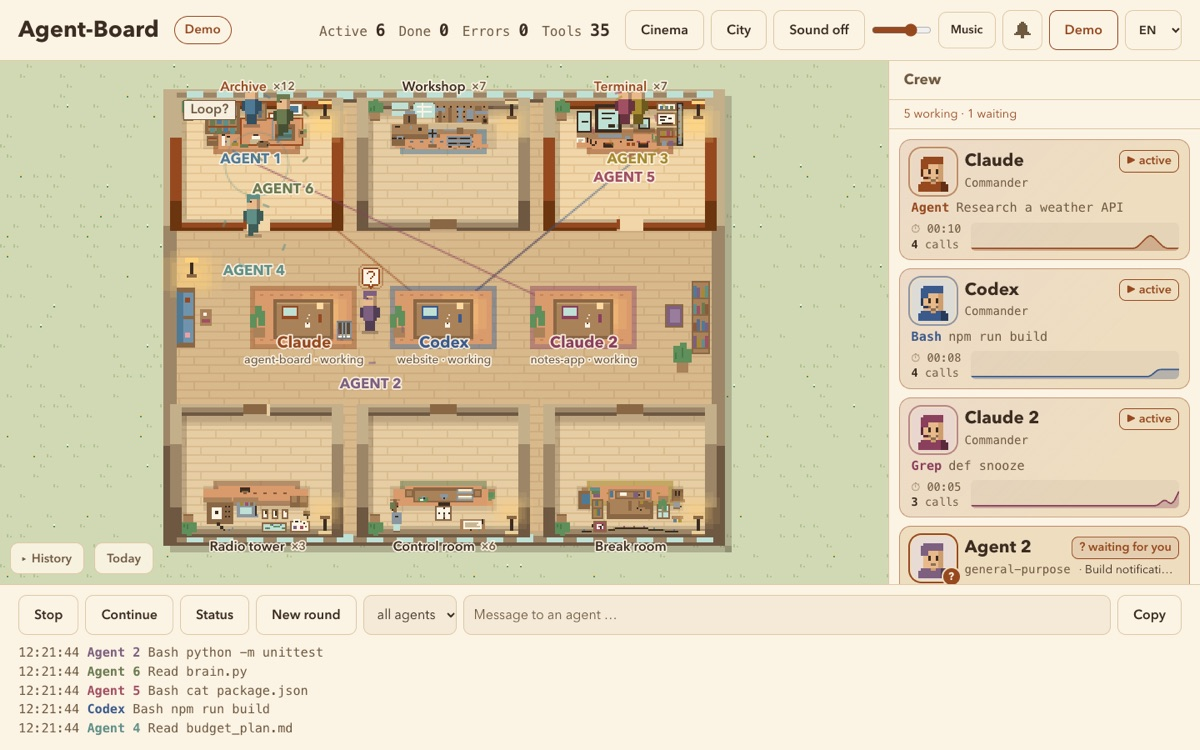
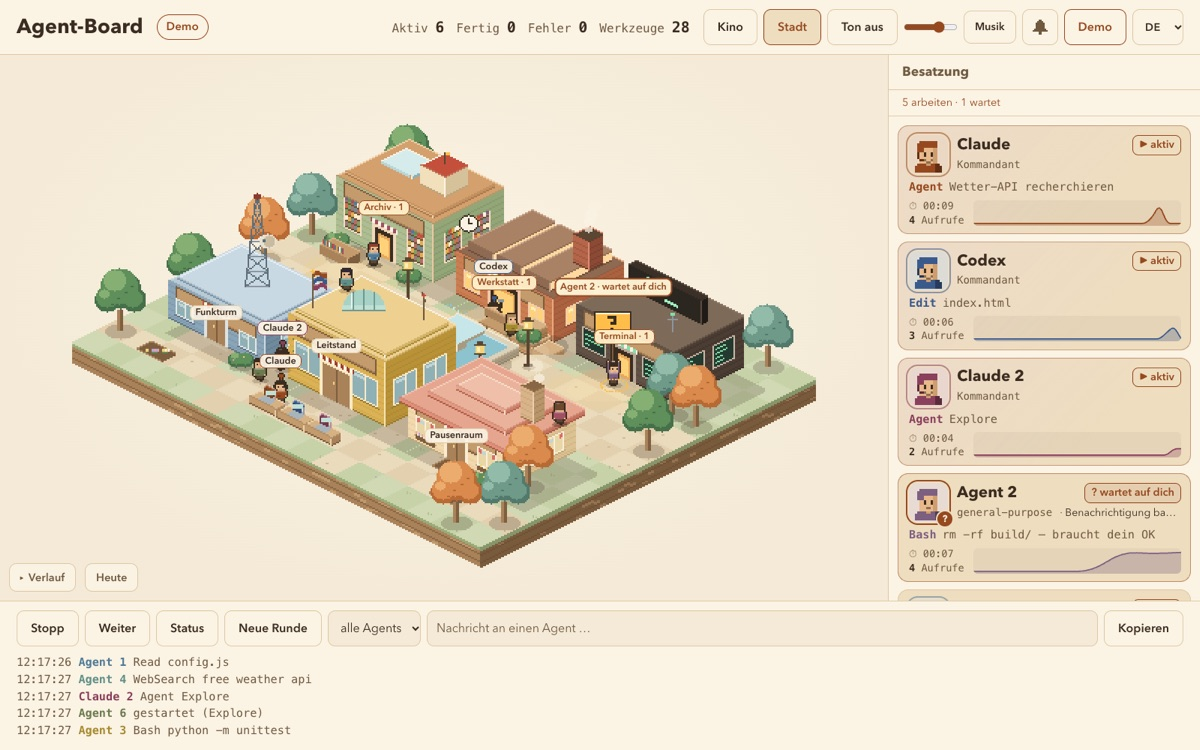
Agent-Board-Bild: neue Stadtansicht (Demo-Daten), Alt-Text und Hinweis, dass sie mit dem nächsten Release in die Live-Demo kommt
Claude-Session: https://claude.ai/code/session_01CDj3EsftMc6JkLKPcrE8A6

diff --git a/index.html b/index.html
@@ -162,6 +162,8 @@ a.stat-link .num-l{text-decoration:underline;text-decoration-color:rgba(161,161,
 a.shot{display:block;transition:transform .5s var(--ease)}
 a.shot:hover{transform:scale(1.012)}
 a.shot:focus-visible{outline-offset:-3px}
+.shot{position:relative}
+.shot-cap{position:absolute;left:12px;bottom:12px;padding:6px 12px;border-radius:980px;background:rgba(0,0,0,.72);color:#f5f5f7;font-size:.875rem;-webkit-backdrop-filter:blur(8px);backdrop-filter:blur(8px)}
 .shot{border-radius:16px;overflow:hidden;box-shadow:0 30px 60px -20px rgba(0,0,0,.7),0 0 0 1px rgba(255,255,255,.06)}
 .t-jv,.t-sec{grid-column:span 3}
 .t-jv .num-l,.t-sec .num-l,.t-ry .num-l,.t-cc .num-l{margin-bottom:24px}
@@ -260,6 +262,8 @@ footer .wrap > :last-child{margin-left:auto}
   .t-ab .stats{gap:14px}
   .t-ab .stats .num-l{font-size:.875rem}
   .t-ab .trk-art{right:22px}
+  .cap-more{display:none}
+  .shot-cap{left:10px;bottom:10px;font-size:.8125rem;padding:5px 10px}
   footer .wrap > :last-child{margin-left:0}
 }
 @media (max-width:430px){
@@ -354,8 +358,9 @@ footer .wrap > :last-child{margin-left:auto}
         <a class="shot" href="https://stefan-paun.github.io/agent-board/?demo=1" target="_blank" rel="noopener" aria-label="Live-Demo von Agent-Board öffnen (neuer Tab)">
           <picture>
             <source type="image/webp" srcset="img/agent-board-720.webp">
-            <img src="img/agent-board.jpg" width="1200" height="750" loading="lazy" alt="Agent-Board bei Tag: eine Pixel-Wohnung mit Räumen für Archiv, Werkstatt und Terminal, drei Schreibtische für Claude, Codex und Claude 2, kleine Agenten-Figuren in den Räumen, einer wartet mit Fragezeichen, rechts die Liste der aktiven Agents.">
+            <img src="img/agent-board.jpg" width="1200" height="750" loading="lazy" alt="Agent-Board in der neuen Stadtansicht: eine isometrische Pixel-Stadt mit Archiv, Werkstatt, Terminal, Funkturm, Leitstand und Pausenraum, darin kleine Agenten-Figuren; ein Agent hält ein Schild, weil er auf Freigabe wartet. Rechts die Liste der aktiven Agents.">
           </picture>
+          <span class="shot-cap">Neu: die Stadtansicht<span class="cap-more">. Kommt mit dem nächsten Release in die Live-Demo.</span></span>
         </a>
       </article>
 
